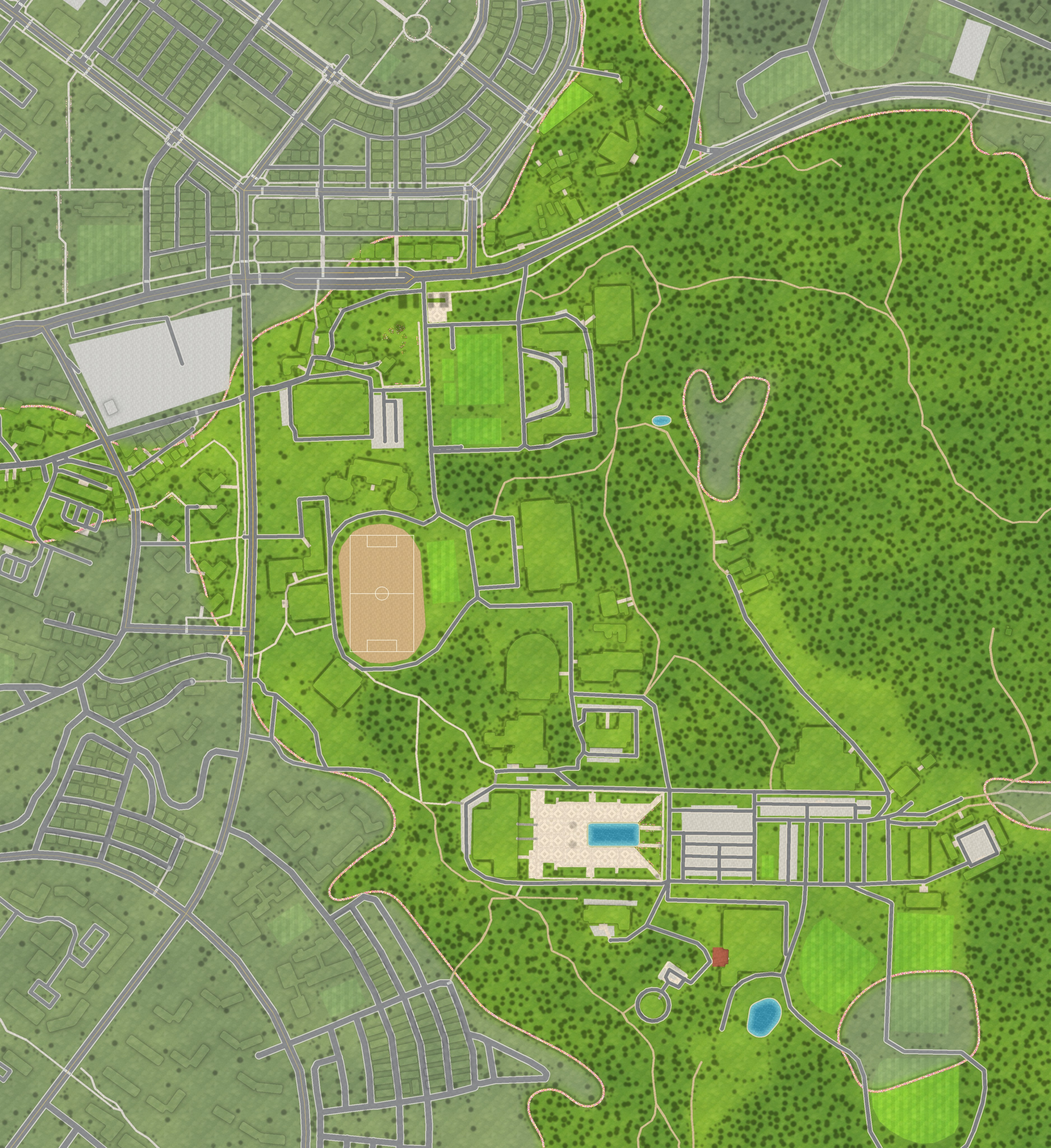
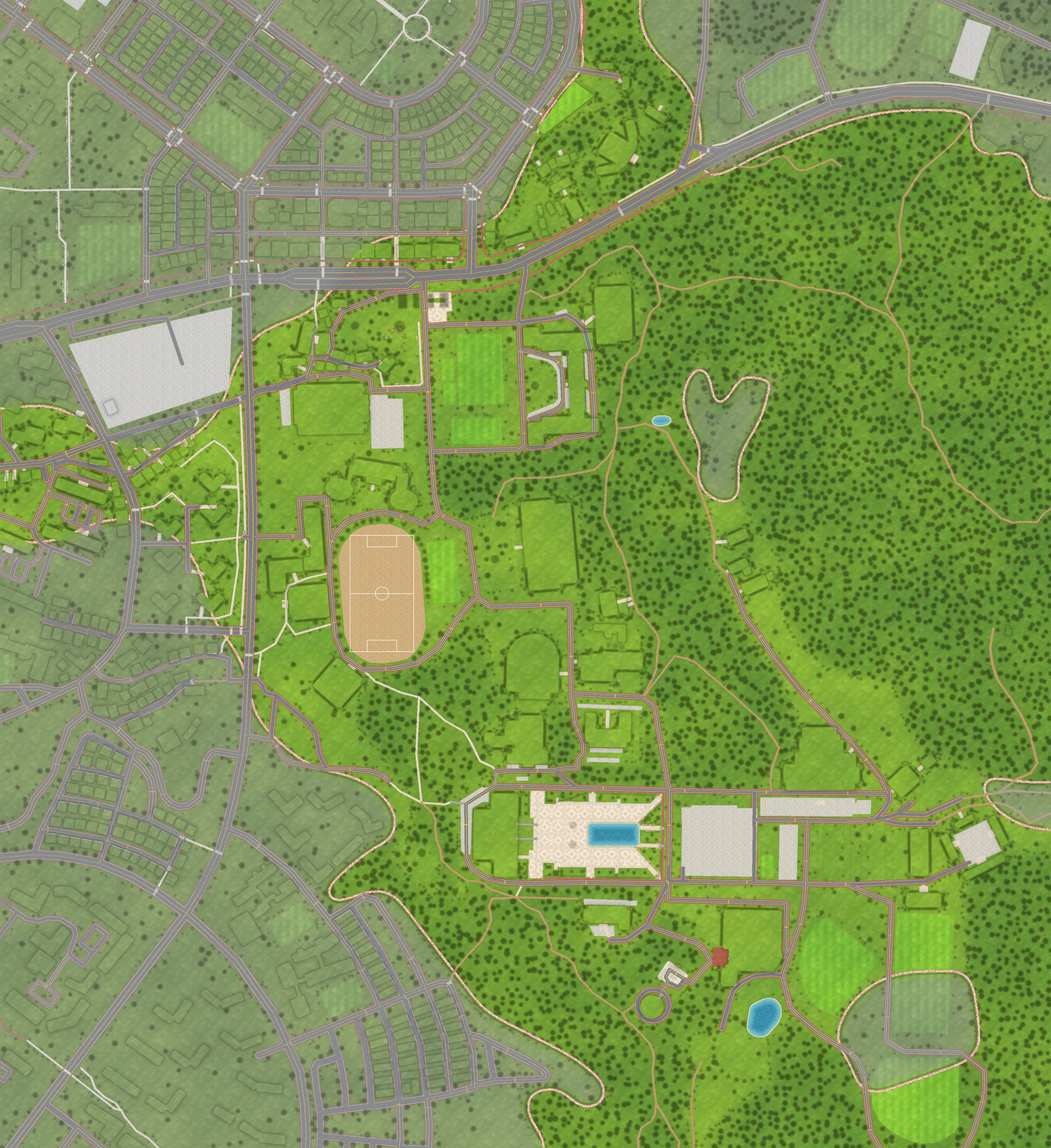
길 사이클 R2: 찻길 옆 붉은 갈색 보도 + 화강석 연석 (VR 실사), 큰 순환로만 노란 중앙선 · 과속방지턱, 주차장 통로 꼬리 빼기, 계단 디딤판 1.2 m 밝은/어두운 줄 + 경계석, 도서관 → 학생회관 막돌 계단, 흙길 더 갈색 · 들쭉날쭉, 광장 1 m 화강석 테두리 / 길 캡처 각도 조정
Claude-Session: https://claude.ai/code/session_018GwRcVGW6TpDojypCxoX2P

diff --git a/My project/Assets/Editor/UiCapture.cs b/My project/Assets/Editor/UiCapture.cs
@@ -55,10 +55,16 @@ public static class UiCapture
     /// </summary>
     static readonly (string name, float x, float z, float size)[] RoadSpots =
     {
-        ("사색의광장", 96f, -354f, 220f), ("도서관_학생회관_계단", -41f, -276f, 90f), ("정문_앞", -141f, 369f, 140f),
+        ("사색의광장", 96f, -354f, 220f), ("도서관_학생회관_계단", -41f, -276f, 90f), ("도서관_계단_가까이", -41f, -276f, 45f), ("정문_앞", -141f, 369f, 140f),
         ("공학관_운동장길", -59f, 304f, 160f), ("대운동장_둘레", -149f, -6f, 200f), ("노천극장_천문대길", 221f, -606f, 160f),
         ("생과대_체대_오르막", 1f, -96f, 160f), ("기숙사_학생회관길", -139f, -176f, 140f), ("외대_멀티_앞", -249f, 74f, 140f),
         ("캠퍼스_전체", 51f, -126f, 1100f),
+    };
+
+    /// <summary>S(비스듬히)가 앞 건물 지붕에 가려지는 자리: (yaw, pitch) — 도서관 계단은 북쪽에서, 생과대 · 체대는 더 내려다보기 (ROAD_REVIEW_v1)</summary>
+    static readonly Dictionary<string, (float yaw, float pitch)> RoadSideView = new()
+    {
+        ["도서관_학생회관_계단"] = (180f, 55f), ["도서관_계단_가까이"] = (180f, 55f), ["생과대_체대_오르막"] = (0f, 62f),
     };
 
     static IEnumerator RoadScript()
@@ -91,9 +97,10 @@ public static class UiCapture
         {
             float ground = Physics.Raycast(new Vector3(x, 1000f, z), Vector3.down, out RaycastHit hit, 2000f) ? hit.point.y : 0f;
             Vector3 target = new Vector3(x, ground, z);
-            foreach (var (tag, pitch, k) in new[] { ("T", 80f, 0.9f), ("S", 40f, 1.1f) })
+            (float yaw, float pitch) side = RoadSideView.TryGetValue(name, out var v) ? v : (0f, 40f);
+            foreach (var (tag, pitch, yaw, k) in new[] { ("T", 80f, 0f, 0.9f), ("S", side.pitch, side.yaw, 1.1f) })
             {
-                Quaternion rot = Quaternion.Euler(pitch, 0f, 0f);   // yaw 0: 남쪽에서 북쪽을 본다
+                Quaternion rot = Quaternion.Euler(pitch, yaw, 0f);   // yaw 0: 남쪽에서 북쪽을 본다, 180: 북쪽에서 남쪽
                 ShotFrom(cam, target - rot * Vector3.forward * (size * k), rot, $"{Safe(name)}_{tag}");
             }
             yield return 0.05f;

diff --git a/docs/길_사이클.md b/docs/길_사이클.md
@@ -51,6 +51,7 @@
 
 | 회차 | 날짜 | 근거 | 바꾼 것 | 확인 |
 | --- | --- | --- | --- | --- |
+| R2 | 10/27 | ROAD_REVIEW_v1 (ui-shots a493f7c) + VR 실사 | 찻길 옆 **붉은 갈색 보도 1.6 m + 화강석 연석** (실사), 큰 구내 순환로(150 m 이상, 주차장 통로 · 진입로 제외)만 **노란 중앙선 + 110 m 마다 과속방지턱** — 짧은 진입로와 구분, 주차장 통로 꼬리 안 그림 (공학관 앞 막다른 꼬리), 계단 디딤판 1.2 m + 위 밝은 줄 · 아래 어두운 줄 + 양옆 경계석 0.4 m (벽돌처럼 깨지던 0.9 m 줄), 도서관 → 학생회관 계단은 **막돌** (자연석 흩뿌림), 흙길 더 갈색 + 가장자리 들쭉날쭉, 광장 가장자리 1 m 베이지 화강석 띠. 캡처: 도서관 계단 S 는 북쪽에서 55°, 생과대 · 체대 S 62°, `도서관_계단_가까이` 자리 추가. 외대 · 멀티 앞 '건물로 파고드는 찻길' 은 높은 건물이 위에서 비스듬히 길을 가린 것 (데이터 문제 아님), 정문 왼쪽 날개 뒤 찻길은 실사 확인 전이라 그대로 | PC 캡처 대기 |
 | R1 | 10/27 | 사용자 요구 | 계단 = 화강석 + 0.9 m 디딤판 줄, 도서관 → 학생회관 20 m 보도를 계단으로 (OSM way 1389719862), 공원 · 숲 흙길(path · track) = 마사토. 길 찾기: 열린 광장 가로지르기 (사색의 광장 서→동 243 m → 172 m), 4~6 m 끊긴 길 잇기. 캡처 도구 `RunRoads` | PC 캡처 대기 (기준 ddab972c · R1 d7948db9) |
 | R0 | 10/27 | VR 실사 33곳 + 항공 2곳 바닥 투영 | 1장 실사 요약, 3장 질문 | — |
 
